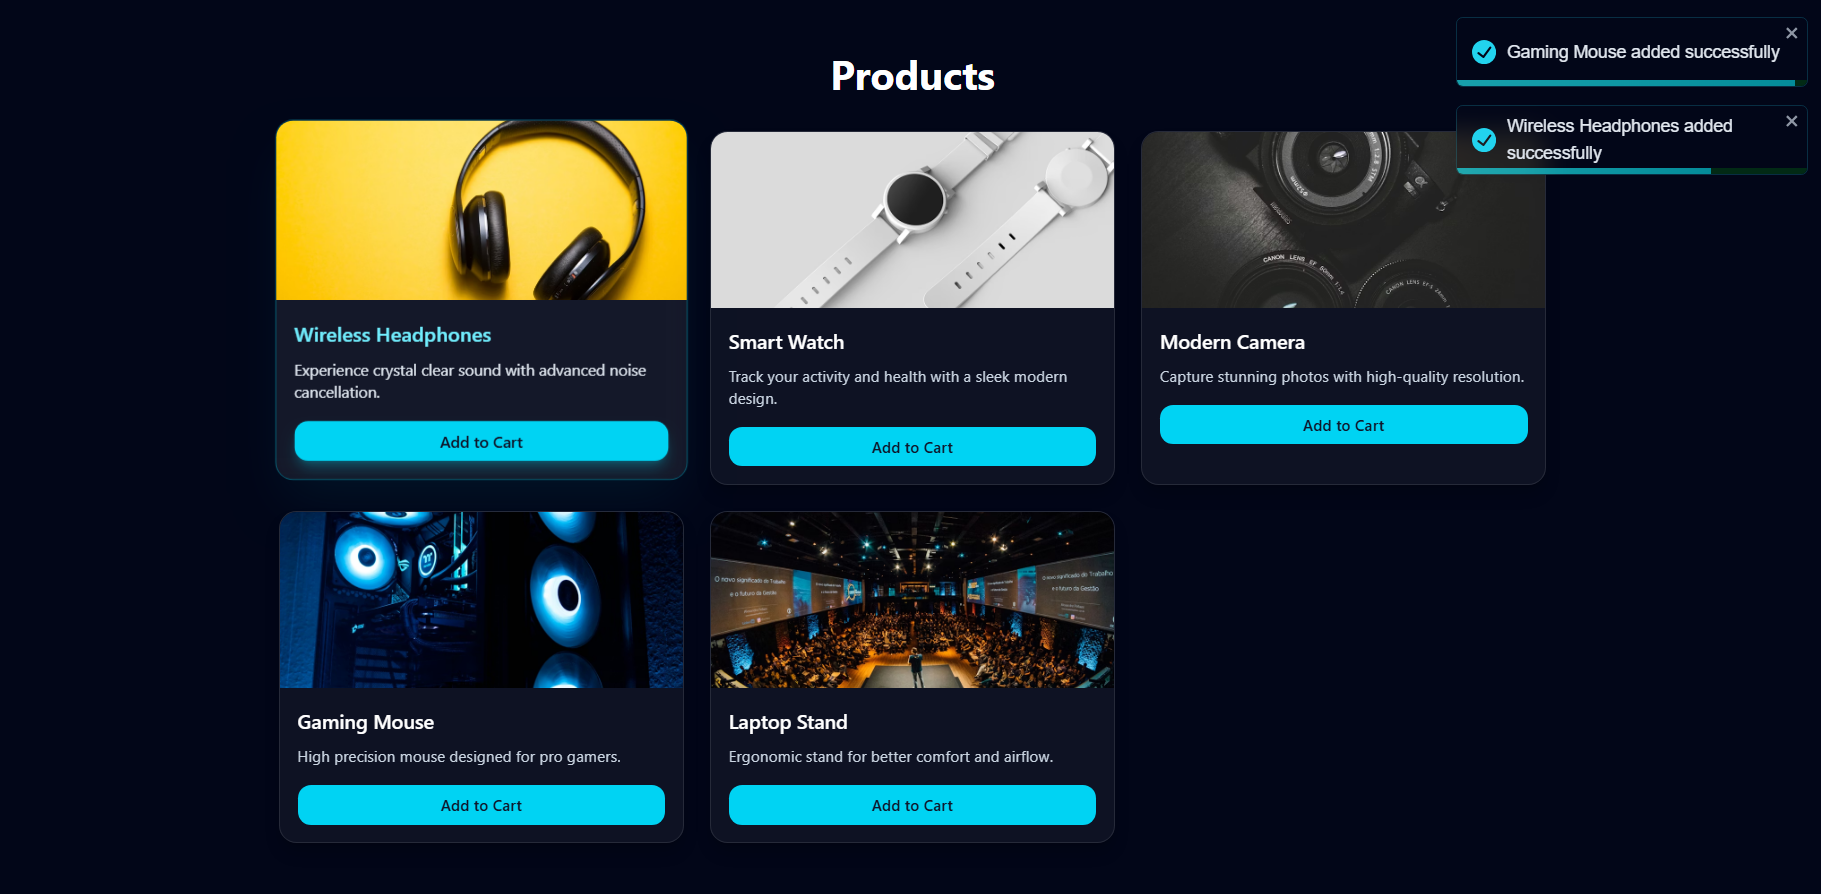
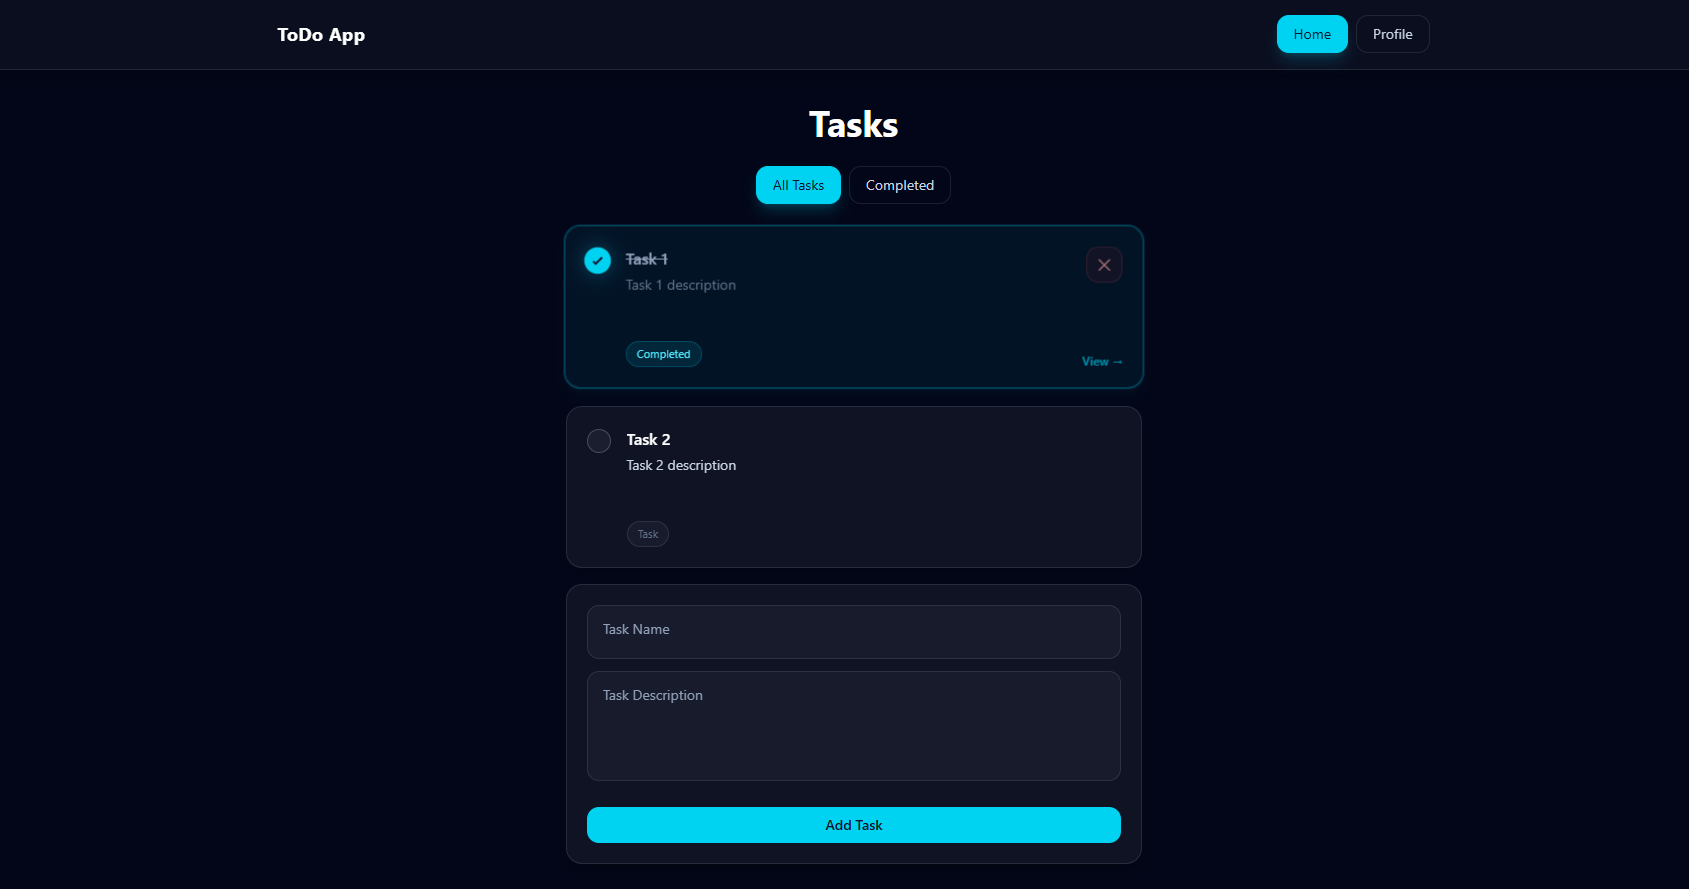
react lab-2 readme file

Changed region(s): [[0.1539, 0.0, 1.0, 0.9719], [0.1539, 0.0304, 0.2155, 0.0607]]

diff --git a/React/Lab-2/README.md b/React/Lab-2/README.md
@@ -1,18 +1,25 @@
-# React Product Cards UI
+# React ToDo App
 
-A modern and responsive product cards UI built with **React + Vite + Tailwind CSS**.  
-Includes smooth hover effects and styled notifications using **React-Toastify**.
+A modern and responsive task management app built with **React + Vite + Tailwind CSS**.  
+Includes task creation, completion tracking, filtering, and detailed views with smooth hover effects and styled notifications using **React-Toastify**.
 
-[![Repository](https://img.shields.io/badge/Repository-GitHub-181717?logo=github)](https://github.com/ahmed-ramadan-professional/ITI/React/Lab-1)
-[![Live Demo](https://img.shields.io/badge/Live%20Demo-Github%20Pages-brightgreen)](https://ahmed-ramadan-professional.github.io/ITI/React/Lab-1/dist/index.html)
+[![Repository](https://img.shields.io/badge/Repository-GitHub-181717?logo=github)](https://github.com/ahmed-ramadan-professional/ITI/React/Lab-2)
+[![Live Demo](https://img.shields.io/badge/Live%20Demo-Github%20Pages-brightgreen)](https://ahmed-ramadan-professional.github.io/ITI/React/Lab-2/dist/index.html)
 
 ![Project Screenshot](./image.png)
+![Project Screenshot](./image-2.png)
+![Project Screenshot](./image-3.png)
 
 ## Features
 
 - ⚡ Built with React + Vite
 - 🎨 Modern UI using Tailwind CSS
 - 🧊 Glassmorphism design
+- ➕ Add and delete tasks
+- ✅ Mark tasks as complete
+- 🔍 Filter tasks (All/Completed)
+- 📄 View detailed task information
+- 👤 User profile page
 - 🖱 Smooth hover interactions
 - 🔔 Styled notifications (React-Toastify)
 - 📱 Fully responsive
@@ -24,6 +31,8 @@ Includes smooth hover effects and styled notifications using **React-Toastify**.
 - React
 - Vite
 - Tailwind CSS
+- React Router
+- Lucide React
 - React Toastify
 
 ---
@@ -31,8 +40,8 @@ Includes smooth hover effects and styled notifications using **React-Toastify**.
 ## Installation
 
 ```bash
-git clone https://github.com/yahmed-ramadan-professional/ITI/React/Lab-1.git
-cd ITI/React/Lab-1
+git clone https://github.com/ahmed-ramadan-professional/ITI/React/Lab-2.git
+cd ITI/React/Lab-2
 npm install
 npm run dev
 ```
